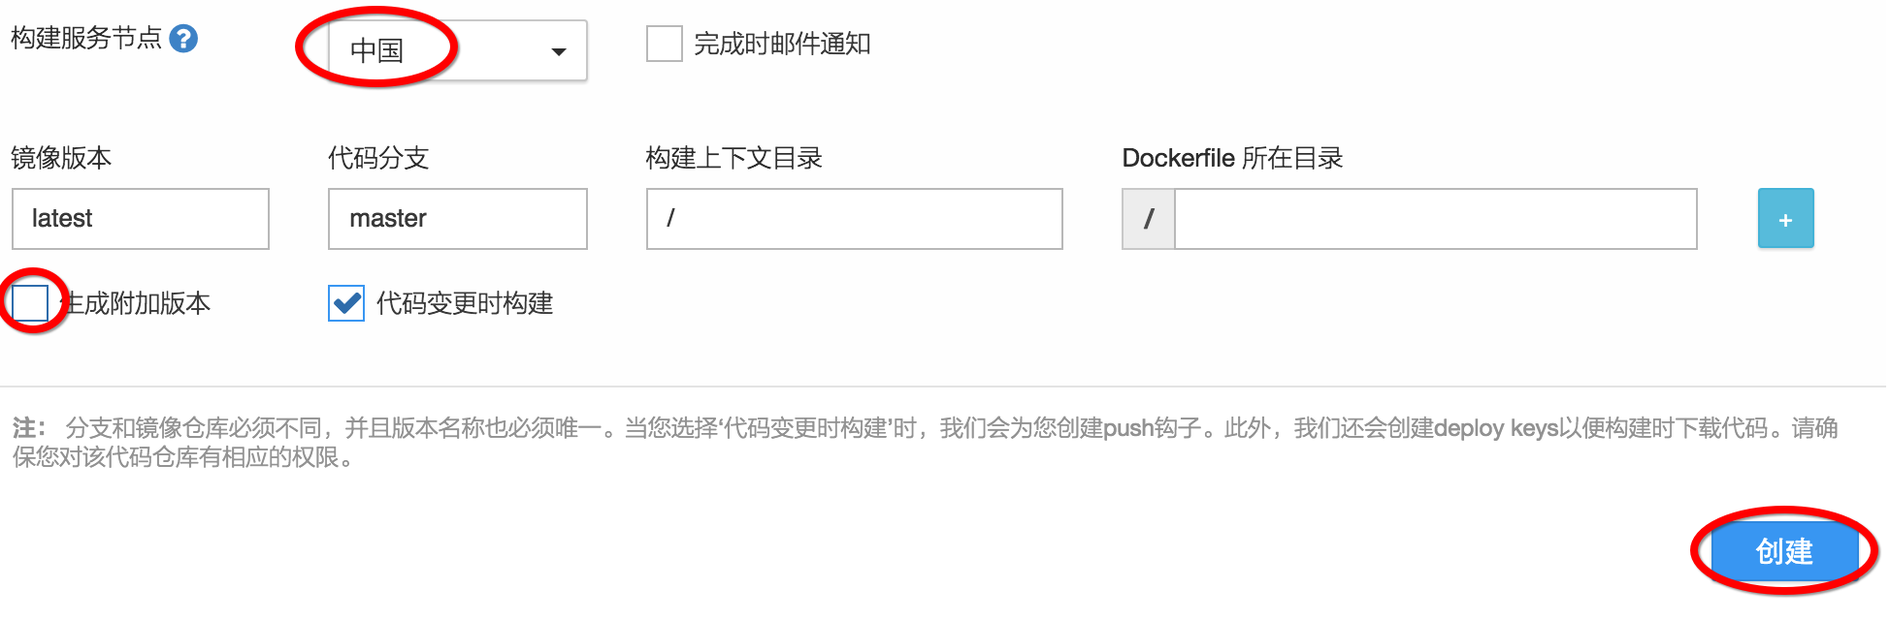
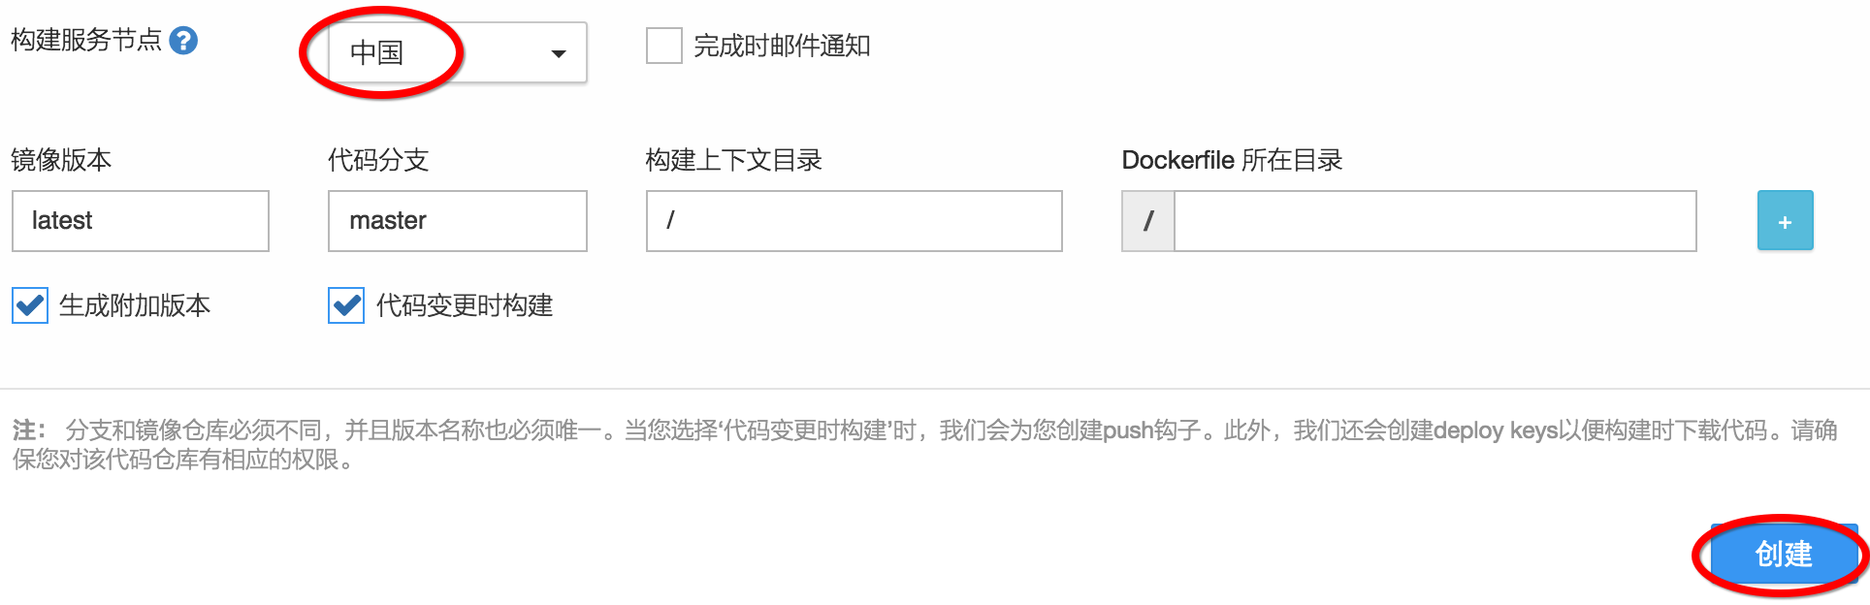
fix bugs in tutorial

diff --git a/tutorial/communication.md b/tutorial/communication.md
@@ -5,7 +5,7 @@
 
 ## 配置服务
 
-删除之前的myubuntu服务，我们在本章将要创建一个新的ubuntu服务。请按照第三章的步骤，选择tutum/ubuntu镜像和14.04的版本，并仍然命名为“myubuntu”。但是不要点击“创建”按钮。
+删除之前的myubuntu服务，我们在本章将要创建一个新的ubuntu服务。请按照[第三章](service-with-ssh.md)的步骤，选择tutum/ubuntu镜像和14.04的版本，并仍然命名为“myubuntu”。但是不要点击“创建”按钮。
 
 ![](../images/tutorial/communication-create.png)
 
@@ -13,44 +13,46 @@
 
 ![](../images/tutorial/communication-port1.png)
 
-“tcp-endpoint”的全称是“External Load-balanced TCP Endpoint”。“External”表示灵雀云为该端口创建的负载均衡器可以从外部访问（即被用户访问），“TCP Endpoint”表示该LB是一个TCP映射，映射后的供外部访问的端口是一个随机端口，这也就是为什么我们在第二章创建的hello服务还是通过80端口访问，而第三章创建的myubuntu却不是22端口，而是42744，因为myubuntu服务默认的端口类型是“TCP Endpoint”，42744是灵雀云为该服务的22端口随机分配的外部访问端口。
+“tcp-endpoint”的全称是“External Load-balanced TCP Endpoint”。“External”表示灵雀云为该端口创建的负载均衡器(LB)可以从外部访问（即被用户访问），“TCP Endpoint”表示该LB是一个TCP映射，映射后的供外部访问的端口是一个随机端口，这也就是为什么我们在[第二章](hello-world.md)创建的hello服务还是通过80端口访问，而[第三章](service-with-ssh.md)创建的myubuntu却不是22端口，而是42744，因为myubuntu服务默认的端口类型是“TCP Endpoint”，42744是灵雀云为该服务的22端口随机分配的外部访问端口。
 
 接下来，我们将给要创建的新ubuntu服务的端口配置更多类型的服务地址。首先在端口下拉选项中选中“22/tcp”，在“映射为”选择“direct-endpoint”，然后点“添加”按钮。
 
 ![](../images/tutorial/communication-port2.png)
 
-这样我们就为“22/tcp”增加了一个新的direct类型的服务地址。接着我们再增加一个HTTP类型的服务地址。在“端口”下来选项框中，手工输入“8080/tcp”，“映射为”选择“http-endpoint”，点击“添加”按钮。最终添加完后的界面如下图：
+这样我们就为“22/tcp”增加了一个新的`direct`类型的服务地址。接着我们再增加一个`http`类型的服务地址。在“端口”下拉选项框中，手工输入“8080/tcp”，“映射为”选择“http-endpoint”，点击“添加”按钮。最终添加完后的界面如下图：
 
 ![](../images/tutorial/communication-port3.png)
 
-我们先不用管新添加的这两个服务地址是什么含义。在“端口”配置的上方，有一个“容器实例数量”的配置项，这就是我们上一章介绍的容器实例数量在创建时的配置项。其默认值是“1”，我们修改为“2”，然后点击“创建”按钮，把服务运行起来。
+我们先不用管新添加的这两个服务地址是什么含义。在“端口”配置的上方，有一个“容器实例数量”的配置项，这就是我们上一章介绍的容器实例数量在创建时的配置项。其默认值是“1”，我们修改为“2”。最后我们会发现在端口配置的上方有一个“用户域名”的输入框，请输入一个你自己拥有的域名，本章示例里将输入“www.alauda.co”。
 
-服务创建成功后，可以在“服务地址”页签看到22和8080两个端口各有一个服务地址，一个是tcp类型，一个是http类型，其中http类型的服务地址可以像第二章一样直接点击，而tcp类型的地址需要像第三章一样使用。同时每个服务地址都有两个域名，一个是灵雀云为用户提供的默认域名，另一个是刚才用户在“用户域名”里自己输入的。
+![](../images/tutorial/communication-port4.png)
+
+现在点击“创建”按钮，把服务运行起来。服务创建成功后，可以在“服务地址”页签看到22和8080两个端口各有一个服务地址，一个是tcp类型，一个是http类型，其中http类型的服务地址可以像[第二章](hello-world.md)一样直接点击，而tcp类型的地址需要像[第三章](service-with-ssh.md)一样使用。同时每个服务地址都有两个域名，一个是灵雀云为用户提供的默认域名，另一个是刚才用户在“用户域名”里自己输入的。
 
 ![](../images/tutorial/communication-view1.png)
 
-在“容器实例”页签里，可以看到已经创建并运行起来的两个实例。
+在“容器实例”页签里，可以看到已经创建并运行起来的两个实例：“myubuntu.0”和“myubuntu.1”。
 
 ![](../images/tutorial/communication-view2.png)
 
 
 ## 访问direct-endpoint端口
 
-现在我们用第三章的SSH方法登录创建的ubuntu服务。你会在服务日志中发现有两个密码，这是因为有两个实例，我们无法区分哪个实例的密码是哪个。即使我们能够知道每个实例的密码是什么，我们尝试使用ssh登录的时候也会发现每次登录进去的容器可能是不同的，因为默认的TCP类型的服务地址是一个负载均衡器，每次ssh时，会随机选择一个容器。特别是当我们调试程序的时候，往往需要登录一个确定的容器，而不是任何一个容器都行。因此这个时候就需要使用容器的direct-endpoint了。
+现在我们用第三章的SSH方法登录刚创建的ubuntu服务。你会在服务日志中发现有两个密码，这是因为有两个实例，我们无法区分哪个实例的密码是哪个。即使我们能够知道每个实例的密码是什么，我们尝试使用ssh登录的时候也会发现每次登录进去的容器可能是不同的，因为默认的TCP类型的服务地址是一个负载均衡器(LB)，每次登录时会随机选择一个容器。特别是当我们调试程序的时候，往往需要登录一个确定的容器，而不是任何一个容器都行。因此这个时候就需要使用容器的direct-endpoint了。
 
-之前我们访问的tcp或者http类型的服务地址都是“服务”的地址，即你访问它的时候，访问的是这个服务。而direct类型的服务地址实际上是“容器”的地址。我们现在点击“容器实例”列表里的“myubuntu.0”或者“myubuntu.1”
+之前我们访问的tcp或者http类型的服务地址都是“服务”的访问地址，即你访问它的时候，访问的是这个服务。而“direct”类型的服务地址实际上是“容器”的地址。我们现在点击“容器实例”列表里的“myubuntu.0”或者“myubuntu.1”
 
 ![](../images/tutorial/communication-inst-view.png)
 
-这个容器只有一个direct服务地址，就是图中显示的`tcp://myubuntu-alaudadoc.myalauda.cn:27842`，密码可以在容器的日志里看到，然后我们通过这个地址就可以ssh到这个容器实例中。我们也可以用同样方法登录myubuntu.1的容器实例。
+这个容器只有一个“direct”服务地址，就是图中显示的`tcp://myubuntu-alaudadoc.myalauda.cn:27842`，密码可以在容器的日志里看到，然后我们通过这个地址就可以ssh到这个容器实例中。我们也可以用同样方法登录myubuntu.1的容器实例。
 
 
 ## 访问http-endpoint端口
 
-我们在创建服务的时候还给8080/tcp配置了一个http-endpoint，在服务的“服务地址”页签中，也有`http://myubuntu-alaudadoc.myalauda.cn`的链接。需要注意的是，如果一个端口配置了http-endpoint，那么它的访问地址一定是80端口，不管之前是不是80。由于我们没有给8080配置direct-endpoint，所以该端口在实例的详细信息页面上是找不到的。
+我们在创建服务的时候还给“8080/tcp”配置了一个“http-endpoint”，在服务的“服务地址”页签中，也有`http://myubuntu-alaudadoc.myalauda.cn`的链接。需要注意的是，如果一个端口配置了“http-endpoint”，那么不管容器暴露的是不是80端口，它的访问地址一定是80。由于我们没有给8080配置direct-endpoint，所以该端口在实例的详细信息页面上是找不到的。在本章中，虽然我们给8080配置了访问地址，但由于“tutum/ubuntu”这个镜像并没有在8080端口监听，所以我们访问`http://myubuntu-alaudadoc.myalauda.cn`是没有正确的返回结果的。
 
 ## 设置用户域名
 
-刚才我们已经可以通过灵雀云提供的默认域名访问22端口或者8080端口的服务，但是我们还无法访问“www.alauda.co”这个用户自定义的域名。虽然灵雀云已经把这个域名必要的设置都完成了，但是有一项工作必须由用户自己完成，那就是将“用户域名”指向“默认域名”。
+刚才我们已经可以通过灵雀云提供的默认域名访问22端口的服务，如果我们有程序在容器里的8080端口监听，也是可以被“http://myubuntu-alaudadoc.myalauda.cn”访问的。但即使这样，我们还是无法访问“www.alauda.co”这个用户自定义的域名。虽然灵雀云已经把这个域名必要的设置都完成了，但是有一项工作必须由用户自己完成，那就是将“用户域名”指向“默认域名”。
 
-请登录提供用户域名的域名服务商（namecheap或者天王等域名服务商）的网站，在域名的主机设置中，加入一条CNAME记录。在我们的示例中，主机名是“www”，类型是“CNAME”，对应的值是“myubuntu-alaudadoc.myalauda.cn”。设置完成后，稍等一会儿，就可以解析www.alauda.co这个域名了。但是此时你访问这个地址，是什么也看不到的，因为我们的服务虽然开放了http端口，但容器里面没有任何程序监听8080端口。在下一章，我们将往这个服务里面增加8080端口的监听程序，让这个端口有一个真正的web服务在响应。
+请登录提供用户域名的域名服务商（可能是www.namecheap.com或者www.net.cn等域名服务商）的网站，在域名的主机设置中，加入一条CNAME记录。在我们的示例中，主机名是“www”，类型是“CNAME”，对应的值是“myubuntu-alaudadoc.myalauda.cn”。设置完成后，稍等一会儿，就可以解析www.alauda.co这个域名了。当然此时你访问这个地址还是什么也看不到。在下一章，我们将往这个服务里面增加8080端口的监听程序，让这个端口有一个真正的web服务响应用户请求。

diff --git a/tutorial/debug.md b/tutorial/debug.md
@@ -1,13 +1,13 @@
 # 第六章　加入自己的代码　开发与调试
 
-我们已经学会了如何创建最基本的服务，但到目前为止，这些服务中还没有包含我们自己的代码，这显示是不能满足大家的需求的。本章，我们将告诉大家一种最方便地加入自己代码并进行简单调试的方法。
+我们已经学会了如何创建最基本的服务，但到目前为止，这些服务中还没有包含我们自己的代码，这显示是不能满足大家需求的。在本章，我们将告诉大家一种最方便地加入自己代码并进行简单调试的方法。
 
-为了演示方便，我们先将上一章创建的myubuntu的容器实例数量改为“1”。然后登录这个服务，并输入下列命令安装我们需要的软件环境：
+为了演示方便，我们先将上一章创建的myubuntu的容器实例数量改为“1”（修改方法见[第四章](service.md)）。然后登录这个服务（登录方法见[第三章](service-with-ssh)），并输入下列命令安装我们需要的软件环境：
 
-        # apt-get update
-        # apt-get install -y nodejs curl		
+	# apt-get update
+	# apt-get install -y nodejs curl		
 
-然后我们使用vi创建一个server.js的文件，内容如下：
+然后我们使用`vi`命令创建一个server.js的文件，内容如下：
 
 ```javascript
 var http = require("http");
@@ -22,21 +22,19 @@ console.log("Server is running, listening on port 8080....");
 
 ```
 
+保存文件并退出`vi`回到命令行，然后运行我们的程序：
 
-	
-保存文件，并退出vi回到命令行，然后运行我们的程序：
-
-		# nodejs server.js
+	# nodejs server.js
 
 ![](../images/tutorial/debug-runserver.png)
 
-我们看到程序将会一直运行，等待http访问。现在我们在ubuntu这个容器里测试一下我们的程序是否运行的正确。由于这个server.js的程序一直在前台运行（除非我们通过Ctrl+C强行停止），我们没法回到命令行去输入更多的命令。所以我们只有两个办法：让这个程序在后台运行或者新开一个终端再次ssh到ubuntu里来。第二种办法在调试的时候比较方便，但它有个局限，那就是对于不支持sshd服务的镜像来说，这种方法就不能用了。好在灵雀云为我们提供了强大的exec功能。我们接下来将通过这个功能连接到这个容器的内部。
+我们看到程序将会一直运行，等待http访问。现在我们在ubuntu这个容器里测试一下我们的程序是否运行的正确。由于这个server.js的程序一直在前台运行（除非我们通过Ctrl+C强行停止），我们没法回到命令行去输入更多的命令。所以我们只有两个办法：让这个程序在后台运行或者新开一个终端再次ssh到ubuntu里来。第二种办法在调试的时候比较方便，但它有个局限，那就是对于不支持sshd服务的镜像来说，这种方法就不能用了。好在灵雀云为我们提供了强大的“exec”功能。我们接下来将通过这个功能连接到这个容器的内部。
 
 让我们打开一个新的终端，然后敲入下面的命令：
 
-		# ssh -p 4022 -t alaudadoc@exec.alauda.cn myubuntu /bin/bash
+	# ssh -p 4022 -t alaudadoc@exec.alauda.cn myubuntu /bin/bash
 
-当然这里的`alaudadoc`需要换成你的用户名。敲入回车键后，提示输入密码。注意，这个密码是你的灵雀云账号的密码，而不是ubuntu的root密码。输入完密码回车，你会发现，你已经登录到了这个容器的内部，你所看到的和SSH到这个ubuntu容器的效果是一样的。
+当然，这里的`alaudadoc`需要换成你的用户名。敲入回车键后，提示输入密码。注意，这个密码是你的灵雀云账号的密码，而不是ubuntu的root密码。输入完密码回车，你会发现，你已经登录到了这个容器的内部，你所看到的和ssh到这个ubuntu容器的效果是一样的。
 
 ![](../images/tutorial/debug-exec.png)
 
@@ -48,6 +46,6 @@ console.log("Server is running, listening on port 8080....");
 
 ![](../images/tutorial/debug-visit1.png)
 
-这样，一个包含有我们自己程序的服务就已经运行起来了。由于在上一章，我们已经将8080端口映射为一个http-endpoint，即80端口，于是你可以在浏览器访问：`http://myubuntu-alaudadoc.myalauda.cn/`，同时如果上一章你的“用户域名”设置的正确的话，那么你就可以通过`http://www.alauda.co/`来访问你的服务了。
+这样，一个包含有我们自己程序的服务就已经运行起来了。由于在上一章，我们已经将8080端口映射为一个“http-endpoint”，即80端口，于是你可以在浏览器访问：`http://myubuntu-alaudadoc.myalauda.cn/`，同时如果上一章你的“用户域名”设置的正确的话，那么你也可以通过`http://www.alauda.co/`来访问你的服务。
 
 ![](../images/tutorial/debug-visit2.png)

diff --git a/tutorial/autobuild.md b/tutorial/autobuild.md
@@ -1,6 +1,6 @@
 # 第八章　第一个属于自己的镜像　从代码自动构建镜像
 
-在上一章，我们创建的镜像仓库虽然可以pull或push镜像，但这些都需要手动来操作。在实际中，更多的是我们希望能够从代码仓库中自动生成镜像，这样会更加方便实用。在本章您将学习灵雀云是如何为用户提供这个强大的功能的。
+在上一章，我们创建的镜像仓库虽然可以pull或push镜像，但这些都需要手工来操作。在实际中，我们更多的是希望能够从代码仓库中自动生成镜像，这样会更加方便实用。在本章，您将学习灵雀云是如何为用户提供这个强大的功能的。
 
 ## 创建代码仓库
 
@@ -8,12 +8,12 @@
 
 登录github，然后创建一个“tutorial-autobuild-myhello”代码仓库。接着打开本地的命令行窗口，为代码仓库添加以下内容：
 
-		git clone https://github.com/alaudacloud/tutorial-autobuild-myhello.git
-		cd tutorial-autobuild-myhello
-		touch server.js
-		touch Dockerfile
+	git clone https://github.com/alaudacloud/tutorial-autobuild-myhello.git
+	cd tutorial-autobuild-myhello
+	touch server.js
+	touch Dockerfile
 
-我们为这个代码仓库增加了两个文件：server.js和Dockerfile。其中server.js的内容是：
+我们为这个代码仓库增加了两个文件：“server.js”和“Dockerfile”。其中server.js的内容是：
 
 ```javascript
 var http = require("http");
@@ -27,7 +27,7 @@ http.createServer(function(request, response) {
 console.log("Server is running, listening on port 80....");
 ```
 
-这个代码和第六章的代码是一样的。而Dockerfile内容是：
+这个代码和[第六章](debug.md)的代码是一样的。而Dockerfile的内容是：
 
 ```
 FROM ubuntu:trusty
@@ -39,7 +39,7 @@ COPY server.js /
 CMD ["nodejs", "/server.js"]
 ```
 
-这是一个非常简单的dockerfile，其功能就是在容器中安装nodejs环境，并把上面的server.js代码运行起来，同时声明外部可以访问8080端口，下面我们提交代码：
+这是一个非常简单的dockerfile，其功能就是在容器中安装nodejs环境，并把上面的server.js代码运行起来，同时声明外部可以访问80端口，下面我们提交代码：
 
 		git add .
 		git commit -m "add my code"
@@ -49,7 +49,7 @@ CMD ["nodejs", "/server.js"]
 
 ## 创建镜像构建仓库
 
-有了代码仓库后，我们现在创建镜像构建仓库。镜像构建仓库本质上是一个镜像仓库，但是它里面的镜像不是通过用户手工推送(push)上来的，而是通过灵雀云的自动构建功能自动推送进来的，因此这种仓库不支持手工推送。
+有了代码仓库后，我们现在创建“镜像构建仓库”。镜像构建仓库本质上是一个镜像仓库，但是它里面的镜像不是通过用户手工推送(push)上来的，而是通过灵雀云的自动构建功能自动推送进来的，因此这种仓库不支持手工推送。
 
 点击控制台上方菜单“镜像仓库”进入镜像仓库列表，可以看到我们之前创建的“alaudadoc/hello”，点击右侧的“+创建镜像仓库”，选择“镜像构建仓库”。
 
@@ -59,9 +59,9 @@ CMD ["nodejs", "/server.js"]
 
 ![](../images/tutorial/autobuild-gitauth.png)
 
-授权通过后，您的代码git账号中的所有代码仓库都会在页面上列出来，选择“alaudacloud/tutorial-autobuild-myhello”，点击“选择”按钮进入配置页面。
+授权通过后，您的git账号中的所有代码仓库都会在页面上列出来，选择“alaudacloud/tutorial-autobuild-myhello”，点击“选择”按钮进入配置页面。
 
-在配置页面中，一些必要的参数已经填好了，我们只需要填写“简要描述”。对于本章的示例，我们还需要手工修改两个配置：“服务构建节点”请选择“中国”，“生成附加版本”请去掉勾选。然后点击创建。
+在配置页面中，一些必要的参数已经填好了，我们只需要填写“简要描述”。对于本章的示例，我们还需要手工修改一个配置：“服务构建节点”请选择“中国”。然后点击创建。
 
 ![](../images/tutorial/autobuild-create8.png)
 
@@ -97,7 +97,7 @@ http.createServer(function(request, response) {
 console.log("Server is running, listening on port 80....");
 ```
 
-提交后，我们点击控制台的“构建”菜单，可以看到有个新的构建正在运行，这个构建就是由于代码变化而重新产生新的镜像的过程。稍等几分钟后，更新过的镜像就构建完成了。
+提交后，我们点击控制台的“构建”菜单，可以看到有个新的构建正在运行，这个构建就是由于代码变化而系统自动产生的构建新的镜像的过程。稍等几分钟后，更新过的镜像就构建完成了。
 
 ![](../images/tutorial/autobuild-rebuild.png)
 

diff --git a/tutorial/repo.md b/tutorial/repo.md
@@ -12,7 +12,7 @@
 
 ![](../images/tutorial/repo-create2.png)
 
-镜像仓库创建成功后，页面会显示“仓库操作指南”，这里有镜像仓库的基本命令行操作。使用方法和docker官方的docker hub使用方法是类似的。接下来，我们会一个个地学习。
+镜像仓库创建成功后，页面会显示“仓库操作指南”，这里有镜像仓库的基本命令行操作。使用方法和docker官方的docker hub是类似的。接下来，我们会一个个地学习。
 
 ![](../images/tutorial/repo-create3.png)
 
@@ -22,28 +22,28 @@
 
 在本机打开一个命令行窗口，首先登录镜像仓库源，方法和登录docker hub是一样，只是需要加上灵雀云的镜像仓库源地址“index.alauda.cn”
 
-		$ sudo docker login index.alauda.cn
+	$ sudo docker login index.alauda.cn
 
 * 从灵雀云拉取镜像
 
-现在我们从灵雀云上把第二章创建hello world服务使用的镜像拉取到本地：
+现在我们从灵雀云上把第二章创建“hello world”服务使用的镜像拉取到本地：
 
-		$ sudo docker pull index.alauda.cn/alauda/hello-world
+	$ sudo docker pull index.alauda.cn/alauda/hello-world
 
 * 推送镜像到灵雀云
 
-本地这时已经有了alauda/hello-world，我们将它命名为我们刚刚创建的镜像仓库的名称“alaudadoc/hello”，然后再推送到镜像仓库里。
+本地这时已经有了“alauda/hello-world”，我们将它命名为我们刚刚创建的镜像仓库的名称“alaudadoc/hello”，然后再推送到镜像仓库里。
 
-		$ sudo docker tag index.alauda.cn/alauda/hello-world index.alauda.cn/alaudadoc/hello:latest
-		$ sudo docker push index.alauda.cn/alaudadoc/hello:latest
+	$ sudo docker tag index.alauda.cn/alauda/hello-world index.alauda.cn/alaudadoc/hello:latest
+	$ sudo docker push index.alauda.cn/alaudadoc/hello:latest
 
 ## 浏览镜像仓库属性
 
-回到灵雀云的界面，选择“镜像仓库”菜单，在镜像仓库列表中点击刚刚创建的“hello”，进入到镜像仓库详细信息界面。点击下方的“版本”，在这里我们可以看到已经有了刚刚推送的latest版本。
+回到灵雀云的界面，选择“镜像仓库”菜单，在镜像仓库列表中点击刚刚创建的“hello”，进入到镜像仓库详细信息界面。点击下方的“版本”，在这里我们可以看到已经有了刚刚推送的“latest”版本。
 
 ![](../images/tutorial/repo-detail.png)
 
-我们还可以通过点击镜像仓库属性右侧的“创建服务”，直接创建该镜像的服务。也可以在创建服务选择镜像的时候，选择“我的镜像”页签，然后点击“选择”
+我们还可以通过点击镜像仓库属性右侧的“创建服务”，直接创建该镜像的服务。也可以在创建服务选择镜像的时候，选择“我的镜像”页签，然后点击“选择”，如下图：
 
 ![](../images/tutorial/repo-deploy.png)
 
@@ -55,8 +55,8 @@
 
 点击网站的上方的“镜像社区”，您可以看到提供搜索镜像的“搜索”功能，推荐镜像等各种信息，页面的最下方是灵雀云推荐给用户的几个镜像仓库：
 
-* alauda：灵雀云提供给用户的一些镜像，例如hello-world镜像
+* alauda：灵雀云提供给用户的一些镜像，如第二章使用的“alauda/hello-world”镜像
 * microsoft：微软提供的官方镜像
-* tutum：tutum提供的镜像，很多都可以通过默认配置创建服务，方便demo
+* tutum：tutum提供的镜像，很多都可以通过默认配置创建服务，方便学习和演示。
 * library：docker官方镜像，与docker hub上对应的docker镜像完全一样，是快速使用docker官方镜像的最佳替代镜像
 

diff --git a/tutorial/service.md b/tutorial/service.md
@@ -5,7 +5,7 @@
 
 ## 调节容器实例数量
 
-我们回到在第一章时创建的Hello World服务。在我们创建服务的时候，所有的服务配置都是系统默认值，创建出来的服务也只有一个实例，实例是真正运行镜像的docker容器，一个服务可以由一个也可以由多个实例组成，每个实例的服务应当是完全一样的。在这一节里，我们学习通过灵雀云更改一个已创建的服务的实例个数。
+我们回到在[第二章](hello-world.md)时创建的“Hello World”服务。在我们创建的时候，所有的配置都是系统默认值，创建出来的服务也只有一个实例，实例是真正运行镜像的docker容器，一个服务可以由一个也可以由多个实例组成，每个实例的服务应当是完全一样的。在这一节里，我们学习通过灵雀云更改一个已创建的服务的实例个数。
 
 首先在服务列表页面中，点击我们之前创建的“hello”服务，进入到服务的详细信息页面，点击下方的“容器实例”标签。我们可以看到在最下面的容器列表栏里，只有一个容器“hello.0”，找到它上方的“容器实例数量”，将原来的“1”改为“2”，然后它点击下面的“应用”按钮。
 
@@ -17,7 +17,7 @@
 
 ![](../images/tutorial/service-scale-visit.png)
 
-这是因为此时的hello服务虽然有两个实例构成，但是灵雀云实际上为该服务创建了一个负载均衡器（Load Balancer，以下简称LB），当用户访问`http://hello-alaudadoc.myalauda.cn`的时候，实际上访问的是该LB，LB会随机的选择一个实例响应用户的请求，这就是为什么当我们多几次访问hello服务的时候，hostname的值不一样，那是因为是由不同的实例提供的服务，每个实例的hostname是固定的。
+这是因为此时的hello服务虽然有两个实例构成，但是灵雀云实际上为该服务创建了一个`负载均衡器`（Load Balancer，以下简称LB），当用户访问`http://hello-alaudadoc.myalauda.cn`的时候，实际上访问的是该LB，LB会随机的选择一个实例容器响应用户的请求，这就是为什么当我们多几次访问hello服务的时候，hostname的值不一样，那是因为每次请求可能由不同的实例提供服务，而每个实例的hostname是固定的。
 
 实例数量可以增大，也可以减小，方法是一样的。
 
